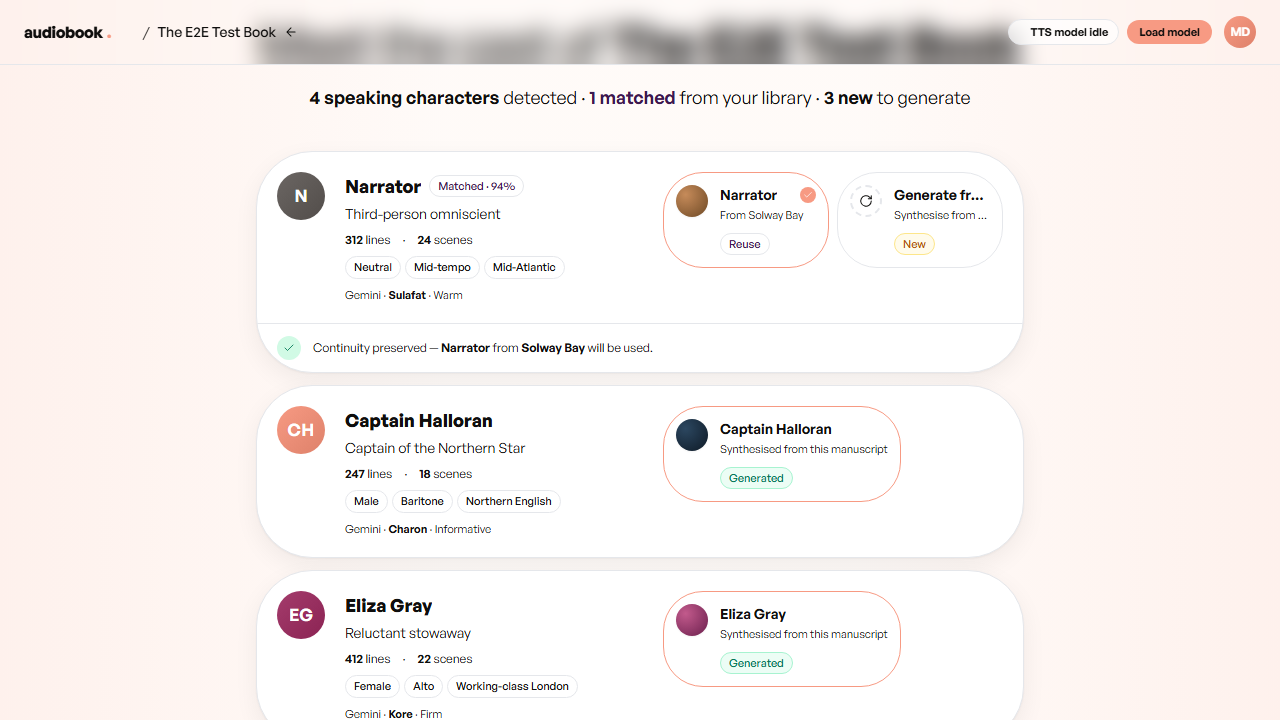
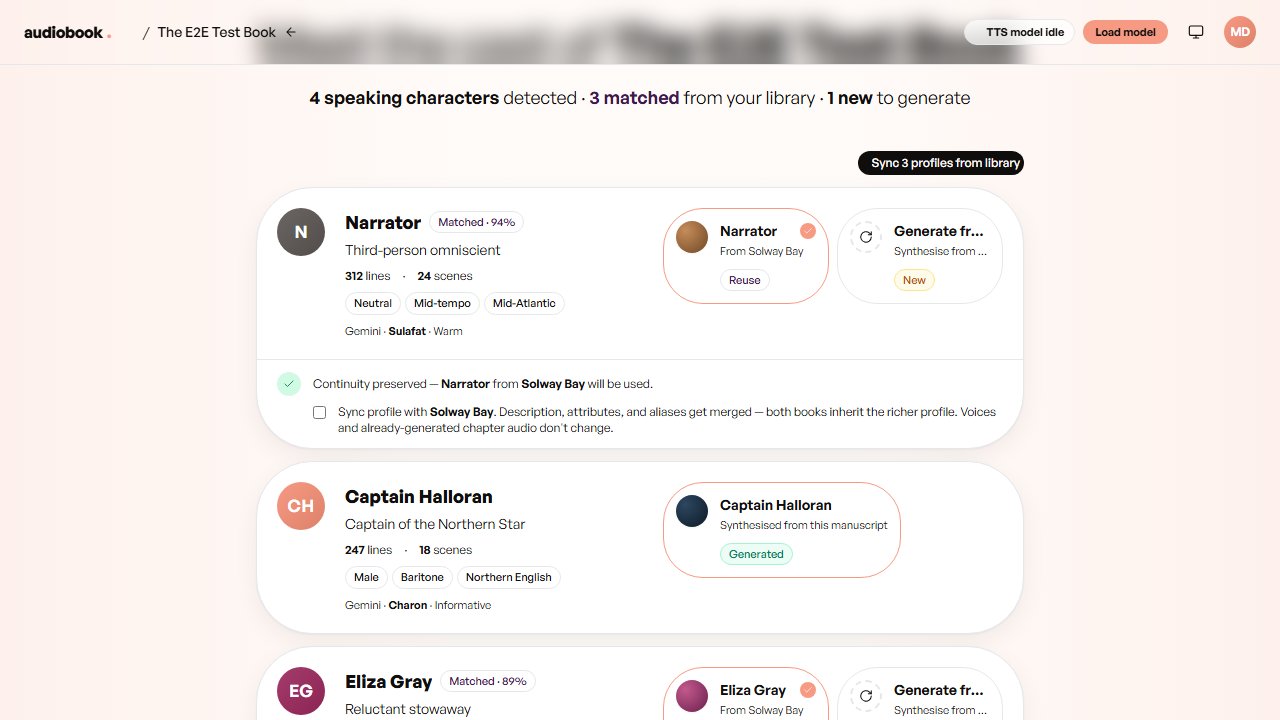
test(e2e): plan 41 walk bulk-sync click-through
Adds e2e/bulk-sync-library.spec.ts that walks the cold-boot to
confirm-cast flow, asserts the "Sync 3 profiles from library" pill
renders with the seeded fixture characters, clicks it, and verifies
all three matched checkboxes tick + the label flips to "Clear all
syncs". The "Confirm cast" click then advances to the ready stage,
exercising the existing handleConfirm batch unchanged.

Re-blesses the confirm.png + confirm-dark.png visual baselines for
the new pill (the cast-card grid now sits ~32px lower) and scopes
the manual-continuity-link footer assertion to .first() since the
seeded matchedFrom on Narrator / Eliza / Marcus means three cards
now render the "Continuity preserved" footer at confirm-cast load.

diff --git a/e2e/bulk-sync-library.spec.ts b/e2e/bulk-sync-library.spec.ts
@@ -1,0 +1,94 @@
+/* Browser-level golden path for plan 41 — bulk-apply library sync on
+ * confirm-cast. Walks the same cold-boot → paste → analysing → confirm
+ * sequence the manual-continuity-link spec uses, then asserts:
+ *
+ *   1. the "Sync N profiles from library" pill renders above the
+ *      cast-card grid with N matching the number of cards carrying the
+ *      "Continuity preserved" footer (plan 41 invariant 1);
+ *   2. clicking the pill ticks every matched character's "Sync profile"
+ *      checkbox in one click (plan 41 invariant 2);
+ *   3. the label flips to "Clear all syncs" after the bulk tick (plan 41
+ *      invariant 3);
+ *   4. confirming the cast advances the stage to ready (the per-card
+ *      override POSTs fire through the existing handleConfirm batch).
+ *
+ * Mock-mode only — the bulk-sync flow is a UI compression over the
+ * existing POST /api/library-cast/override path. Wall-clock budget:
+ * ~16 s warm (analyser mock ~7.6 s + UI).
+ *
+ * Pairs with docs/features/41-bulk-library-sync.md. */
+
+import { test, expect } from '@playwright/test';
+
+test.describe('bulk-sync library on confirm-cast', () => {
+  test('pill renders, click ticks all matched checkboxes, Confirm advances stage', async ({
+    page,
+  }) => {
+    /* Step 1: cold boot to library. */
+    await page.goto('/');
+    await expect(page.getByRole('button', { name: /Start a new book/i }).first()).toBeVisible({
+      timeout: 10_000,
+    });
+
+    /* Step 2: Start a new book. */
+    await page
+      .getByRole('button', { name: /Start a new book/i })
+      .first()
+      .click();
+    await expect(page).toHaveURL(/#\/new$/);
+
+    /* Step 3: paste a tiny manuscript. The H1 becomes the title. */
+    await page.getByRole('button', { name: /Paste text/i }).click();
+    await page
+      .locator('textarea')
+      .fill(
+        '# Bulk Sync Test Book\n\n# Chapter 1\n\nA tiny test paragraph.\n\n' +
+          '# Chapter 2\n\nA second paragraph.\n',
+      );
+    await page.getByRole('button', { name: /Upload pasted text/i }).click();
+
+    /* Step 4: confirm metadata. */
+    await expect(page.getByRole('button', { name: /Save book and start analysis/i })).toBeVisible({
+      timeout: 5_000,
+    });
+    await page.getByPlaceholder(/Ursula K\. Le Guin/i).fill('E2E Author');
+    await page.getByRole('button', { name: /Save book and start analysis/i }).click();
+
+    /* Step 5: analysing → click Start → wait for the canned fixture
+       to stream. ANALYSIS_NORTHERN_STAR seeds Halloran / Eliza / Marcus /
+       Narrator. Plan 41 seeded matchedFrom + match-factors on three of
+       those (Narrator + Eliza + Marcus) so the bulk-sync pill renders
+       with N=3 once voice-matching completes. */
+    await expect(page).toHaveURL(/#\/books\/.+\/analysing$/, { timeout: 5_000 });
+    await page.getByRole('button', { name: /Start analysis/i }).click();
+
+    /* Step 6: confirm-cast view loads after the four mock phases. */
+    await expect(page).toHaveURL(/#\/books\/.+\/confirm$/, { timeout: 15_000 });
+    await expect(page.getByText('Captain Halloran').first()).toBeVisible({ timeout: 5_000 });
+
+    /* Step 7: the bulk-sync pill is present with N=3 matching the three
+       fixture characters carrying the full library handle. The
+       voice-match effect in src/components/layout.tsx:469 fires once
+       characters hydrate; give it a beat to land. */
+    const bulkPill = page.getByRole('button', { name: /Sync 3 profiles from library/ });
+    await expect(bulkPill).toBeVisible({ timeout: 5_000 });
+
+    /* Step 8: click the pill — every matched character's "Sync profile"
+       checkbox ticks in one click. Per plan 41 invariant 3, the label
+       flips to "Clear all syncs" once all eligible are ticked. */
+    await bulkPill.click();
+    await expect(page.getByRole('button', { name: 'Clear all syncs' })).toBeVisible();
+    const checkboxes = page.getByRole('checkbox', { name: /Sync profile/i });
+    await expect(checkboxes).toHaveCount(3);
+    for (let i = 0; i < 3; i++) {
+      await expect(checkboxes.nth(i)).toBeChecked();
+    }
+
+    /* Step 9: confirm cast advances to the ready stage. The handleConfirm
+       batch (confirm-cast.tsx:94-121) fans out the per-character
+       library-cast-override POSTs before navigating; awaiting the URL
+       change implicitly waits for those promises to settle. */
+    await page.getByRole('button', { name: /Confirm cast and review manuscript/i }).click();
+    await expect(page).toHaveURL(/#\/books\/.+\/manuscript/, { timeout: 10_000 });
+  });
+});

diff --git a/e2e/manual-continuity-link.spec.ts b/e2e/manual-continuity-link.spec.ts
@@ -117,7 +117,13 @@ test.describe('manual continuity link', () => {
        reliably-observable mock signals are the footer text + the prior
        bookTitle ("Solway Bay"). */
     await expect(page).not.toHaveURL(/profile=halloran/, { timeout: 5_000 });
-    await expect(page.getByText(/Continuity preserved/i)).toBeVisible({ timeout: 5_000 });
+    /* Plan 41 seeded matchedFrom on Narrator / Eliza / Marcus so the
+       bulk-sync pill has multiple eligible cards in mock mode — those
+       cards also render "Continuity preserved" footers. The original
+       single-match assertion would have caught the narrator's footer
+       even before plan 41 (narrator had matchedFrom in the fixture);
+       `.first()` keeps the semantics. */
+    await expect(page.getByText(/Continuity preserved/i).first()).toBeVisible({ timeout: 5_000 });
     await expect(page.getByText('Solway Bay').first()).toBeVisible();
   });
 });